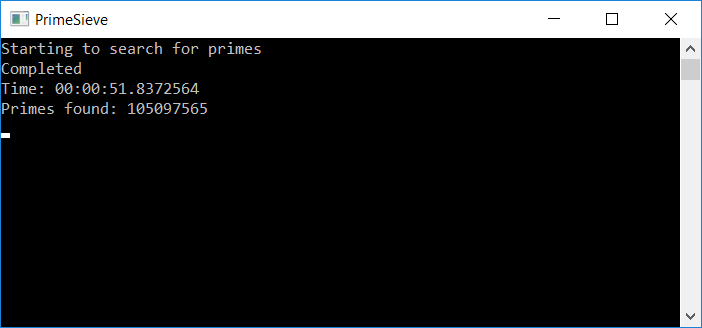
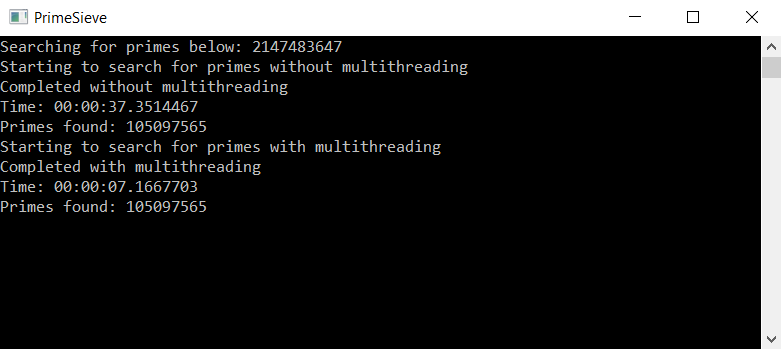
Put project in order for GitHub

Changed region(s): [[0.0, 0.0, 1.0, 1.0]]

diff --git a/PrimeSieve/PrimeSieve.cs b/PrimeSieve/PrimeSieve.cs
@@ -61,7 +61,7 @@ namespace JoshuaaM.PrimeSieve
         {
             int sqrtMaxNumber = (int)Math.Sqrt(maxNumber) + 1;
             int[] initialPrimes = GenerateInitialPrimes(maxNumber);
-            List<int> primes = new List<int>(); //Will be removed at a later date
+            List<int> primes = new List<int>(500000000); //Will be removed at a later date
             primes.AddRange(initialPrimes);
 
             int setLength = 10000; //Less than size of CPU L1 cache
@@ -96,7 +96,7 @@ namespace JoshuaaM.PrimeSieve
         {
             int sqrtMaxNumber = (int)Math.Sqrt(maxNumber) + 1;
             int[] initialPrimes = GenerateInitialPrimes(maxNumber);
-            List<int> primes = new List<int>();
+            List<int> primes = new List<int>(500000000);
             primes.AddRange(initialPrimes);
 
             List<int> threadLowerLimits = new List<int>(); //Used to ordering results of thread work

diff --git a/PrimeSieveExample/Program.cs b/PrimeSieveExample/Program.cs
@@ -10,8 +10,9 @@ namespace PrimeSieveExample
         {
             Console.Title = "PrimeSieve";
             Stopwatch sw = new Stopwatch();
-            int countOfPrimesToSearchForMax = 1000000000;
+            int countOfPrimesToSearchForMax = int.MaxValue;
 
+            Console.WriteLine("Searching for primes below: {0}", countOfPrimesToSearchForMax);
             Console.WriteLine("Starting to search for primes without multithreading");
             sw.Start();
             int[] primes = PrimeSieve.GeneratePrimesToMax(countOfPrimesToSearchForMax);

diff --git a/README.md b/README.md
@@ -1,11 +1,12 @@
 # About PrimeSieve
 
-PrimeSieve is a C# library that generates primes using a Segmented Sieve of Eratosthenes implementation. The library allows you to calculate all primes up to given value. It calculates all the primes below int.MaxValue (~2.4 billion) in only 37.7 seconds (using single core of Intel Core i7-7800X 3.5GHz). I initially wrote the code due to requiring the generation of primes to solve problems at <a href="https://projecteuler.net/about">Project Euler</a>. Currently PrimeSieve can only count all primes to int.MaxValue, however increasing this value is noted on the roadmap below.</br>
+PrimeSieve is a C# library that generates primes using a Segmented Sieve of Eratosthenes implementation. The library allows you to calculate all primes up to given value. It calculates all the primes below int.MaxValue (~2.4 billion) in only 37.35 seconds using a single core, or 7.17 seconds using all cores (6 core Intel Core i7-7800X 3.5GHz). I initially wrote the code due to requiring the generation of primes to solve problems at <a href="https://projecteuler.net/about">Project Euler</a>. Currently PrimeSieve can only count all primes to int.MaxValue, however increasing this value is noted on the roadmap below.</br>
 </br>
 When searching for primes up to int.MaxValue, I found that a bool array of size [int.MaxValue] broke .NET’s 2GB object limit. To solve this, I came up with what I later found to be known as the Segmented Sieve. This approach divides the numbers to check for primality into ranges (segments), and then iterates over each of these returning its primes.</br>
 </br>
 
-# Example Usage
+
+# Usage
 
 The library is produced as a DLL file, so simply add the DLL as a reference to your project and follow the code example below.</br>
 The DLL is directly available from inside the solution <a href="https://github.com/JoshuaaMichael/PrimeSieve/blob/master/PrimeSieve.dll?raw=true">here</a>
@@ -14,9 +15,9 @@ The DLL is directly available from inside the solution <a href="https://github.c
 ```C#
 using System;
 using System.Diagnostics;
-using JoshuaaM.PrimeGenerator;
+using JoshuaaM.PrimeSieve;
 
-namespace PrimeGeneratorExample
+namespace PrimeSieveExample
 {
     class Program
     {
@@ -24,15 +25,27 @@ namespace PrimeGeneratorExample
         {
             Console.Title = "PrimeSieve";
             Stopwatch sw = new Stopwatch();
-            Console.WriteLine("Starting to search for primes");
+            int countOfPrimesToSearchForMax = int.MaxValue;
+
+            Console.WriteLine("Searching for primes below: {0}", countOfPrimesToSearchForMax);
+            Console.WriteLine("Starting to search for primes without multithreading");
             sw.Start();
-
-            int[] primes = PrimeSieve.GeneratePrimesToMax(int.MaxValue);
-
+            int[] primes = PrimeSieve.GeneratePrimesToMax(countOfPrimesToSearchForMax);
             sw.Stop();
-            Console.WriteLine("Completed");
+            Console.WriteLine("Completed without multithreading");
             Console.WriteLine("Time: {0}", sw.Elapsed);
             Console.WriteLine("Primes found: {0}", primes.Length);
+
+            sw.Reset();
+
+            Console.WriteLine("Starting to search for primes with multithreading");
+            sw.Start();
+            primes = PrimeSieve.GeneratePrimesToMax(countOfPrimesToSearchForMax, true);
+            sw.Stop();
+            Console.WriteLine("Completed with multithreading");
+            Console.WriteLine("Time: {0}", sw.Elapsed);
+            Console.WriteLine("Primes found: {0}", primes.Length);
+
             Console.ReadLine();
         }
     }
